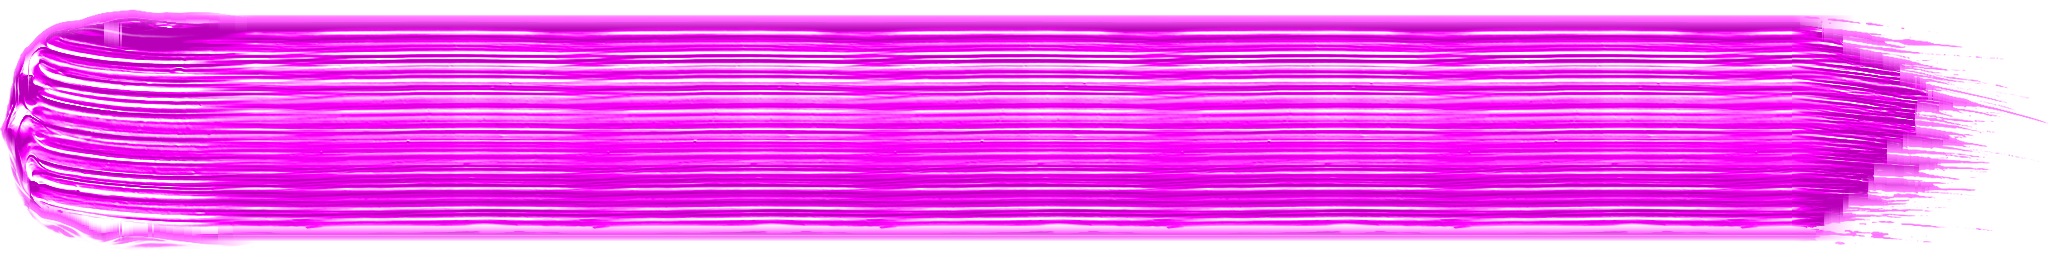
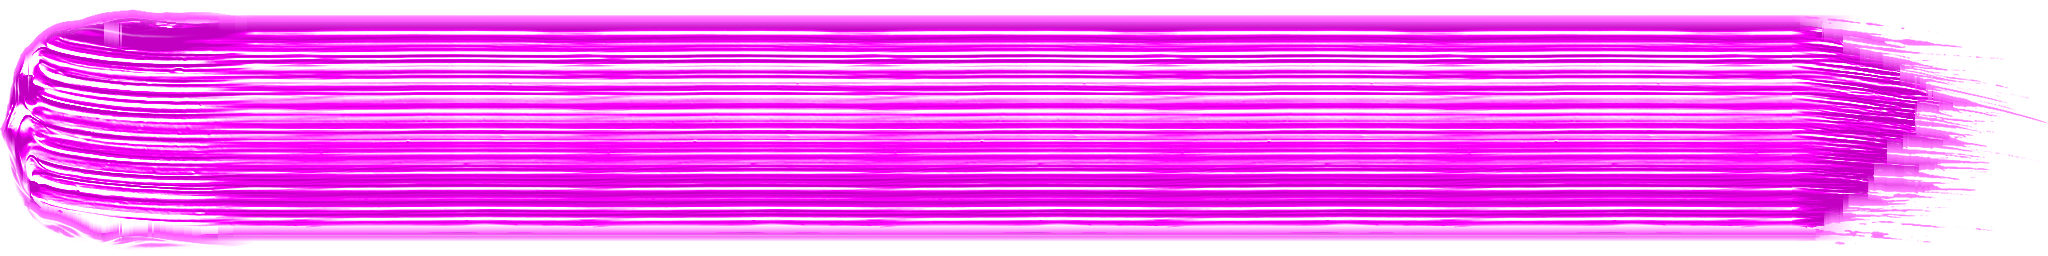
fix(brush): 납작붓 꺾임 폭 유지(앞뒤 대칭 방향+마이터) · 2D 삼각형 텍스처 매핑 · 붓결 강화
- 방향 = 확정 시 앞뒤 폭 20% 현(지연 없음·이벤트 잔꺾임 평균), 꺾임 1/cos(θ/2) 폭 보정(최대 1.5배)
- Canvas2D 이음 띠를 삼각형 2개 정확 아핀 매핑 — 급한 꺾임 부채살 제거
- 하이라이트 G 3.4·캡 0.44, 몸통 세부 0.2(반복 얼룩 감소)

Changed region(s): [[0.0, 0.0938, 0.9375, 0.9062], [0.0312, 0.1562, 0.0625, 0.1875]]

diff --git a/src/engine/brushes/OilRibbon.ts b/src/engine/brushes/OilRibbon.ts
@@ -2,6 +2,8 @@ import { BrushBase } from "./BrushBase";
 import type { BrushSettings, Dab, StrokePoint } from "../types";
 import { RIBBON, ribbonLen, ribbonU } from "../core/ribbon";
 
+type Seg = NonNullable<NonNullable<Dab["slice"]>["seg"]>;
+
 /**
  * 납작붓(리본 유화) — 붓자국 그림 한 장(Firefly 생성, public/brush-tips/oil-ribbon.png)을
  * 획 경로를 따라 얇은 조각으로 잘라 이어 붙인다(2026-10-07 아트봉봉 비교 — 도장을 찍는 유화붓은
@@ -52,6 +54,10 @@ export class OilRibbon extends BrushBase {
   /** 앞 조각 단면(이음 띠의 왼쪽 변) */
   private prev: { x: number; y: number; rot: number; size: number; arc: number } | null = null;
   private tapAt: StrokePoint | null = null;
+  /** 이 획에서 만든 조각 중심(호 길이순) — 앞뒤를 같이 보는 진행 방향 계산용 */
+  private pts: { x: number; y: number; arc: number }[] = [];
+  /** 마지막으로 확정해 내보낸 조각의 단면 — 다음 이음 띠의 왼쪽 변 */
+  private lastOut: Seg | null = null;
 
   private width(): number {
     return this.strokePx(this.settings.size);
@@ -127,12 +133,11 @@ export class OilRibbon extends BrushBase {
     if (pv) {
       const w = this.width();
       d.size = pv.size + (d.size - pv.size) * Math.min(1, (this.arc - pv.arc) / (w * 0.5));
-      let da = d.rotation - pv.rot;
-      da = Math.atan2(Math.sin(da), Math.cos(da));
-      d.rotation = pv.rot + da * Math.min(1, (this.arc - pv.arc) / (w * 0.25));
     }
+    // 방향(d.rotation)은 여기서 정하지 않는다 — 내보낼 때 앞뒤 경로를 함께 보고 정한다(settle)
     d.slice = this.liveSlice(this.arc, d);
     this.arcOf.set(d, this.arc);
+    this.pts.push({ x: d.x, y: d.y, arc: this.arc });
     this.prev = { x: d.x, y: d.y, rot: d.rotation, size: d.size, arc: this.arc };
     return d;
   }
@@ -140,6 +145,8 @@ export class OilRibbon extends BrushBase {
   override begin(p: StrokePoint, settings: BrushSettings): Dab[] {
     this.queue = [];
     this.prev = null;
+    this.pts = [];
+    this.lastOut = null;
     this.tapAt = p;
     super.begin(p, settings); // rotationFollowsStroke — 첫 조각은 방향이 정해질 때까지 보류된다
     return [];
@@ -152,7 +159,59 @@ export class OilRibbon extends BrushBase {
     const keepFrom = this.traveled - ribbonLen(RIBBON.end, this.width());
     let n = 0;
     while (n < this.queue.length && this.queue[n].arc <= keepFrom) n++;
-    return this.queue.splice(0, n).map((q) => q.d);
+    return this.queue.splice(0, n).map((q) => this.settle(q.d, q.arc));
+  }
+
+  /** 호 길이 a 의 경로 위 점(조각 중심 사이 선형 보간) */
+  private pointAt(a: number): { x: number; y: number } {
+    const P = this.pts;
+    let lo = 0;
+    let hi = P.length - 1;
+    if (a <= P[0].arc) return P[0];
+    if (a >= P[hi].arc) return P[hi];
+    while (hi - lo > 1) {
+      const m = (lo + hi) >> 1;
+      if (P[m].arc <= a) lo = m;
+      else hi = m;
+    }
+    const t = (a - P[lo].arc) / Math.max(1e-9, P[hi].arc - P[lo].arc);
+    return { x: P[lo].x + (P[hi].x - P[lo].x) * t, y: P[lo].y + (P[hi].y - P[lo].y) * t };
+  }
+
+  /**
+   * 조각을 확정한다 — 방향 = 앞뒤 폭 20% 구간의 현(대칭이라 꺾일 때 늦게 돌지 않고, 입력 이벤트마다의
+   * 잔꺾임은 평균된다), 급한 꺾임에선 단면을 1/cos(꺾임/2) 만큼 넓혀(최대 1.5배) 폭이 줄지 않게.
+   * 앞 확정 조각의 단면을 이음 띠의 왼쪽 변으로 붙인다(2026-10-08 사용자 «꺾이는 부분이 너무 얇아짐»
+   * — 한쪽 지연 평활은 모서리를 얇게, 지연 0 은 이벤트마다 계단을 만들었다).
+   * 내보내기는 펜보다 끝 구간(획 폭)만큼 뒤라 «앞쪽» 경로가 이미 있다.
+   */
+  private settle(d: Dab, arc: number): Dab {
+    if (this.pts.length > 1) {
+      const h = this.width() * 0.2;
+      const p0 = this.pointAt(arc - h);
+      const pc = this.pointAt(arc);
+      const p1 = this.pointAt(arc + h);
+      const tx = p1.x - p0.x;
+      const ty = p1.y - p0.y;
+      if (tx * tx + ty * ty > 1e-6) d.rotation = Math.atan2(ty, tx);
+      const ix = pc.x - p0.x;
+      const iy = pc.y - p0.y;
+      const ox = p1.x - pc.x;
+      const oy = p1.y - pc.y;
+      const li = Math.hypot(ix, iy);
+      const lo = Math.hypot(ox, oy);
+      if (li > 1e-3 && lo > 1e-3) {
+        const cos = Math.max(-1, Math.min(1, (ix * ox + iy * oy) / (li * lo)));
+        const half = Math.acos(cos) / 2;
+        d.size *= Math.min(1.5, 1 / Math.max(1e-3, Math.cos(half)));
+      }
+    }
+    if (d.slice?.seg) {
+      if (this.lastOut) d.slice = { ...d.slice, seg: { ...this.lastOut } };
+      else d.slice = { u0: d.slice.u0, u1: d.slice.u1, len: d.slice.len };
+    }
+    this.lastOut = { x: d.x, y: d.y, rot: d.rotation, size: d.size };
+    return d;
   }
 
   override preview(): Dab[] {
@@ -160,8 +219,13 @@ export class OilRibbon extends BrushBase {
     const total = this.traveled;
     if (!this.queue.length || total <= w * 0.25) return [];
     const e = Math.min(ribbonLen(RIBBON.end, w), total * 0.5);
-    // end() 와 같은 계산 — 손을 떼도 화면이 안 바뀐다(프리뷰=최종)
-    return this.queue.map((q) => (q.arc > total - e ? { ...q.d, slice: this.endSlice(q, total, e) } : q.d));
+    // end() 와 같은 계산 — 손을 떼도 화면이 안 바뀐다(프리뷰=최종). 확정 상태는 되돌린다.
+    const keep = this.lastOut;
+    const out = this.queue.map((q) =>
+      this.settle({ ...q.d, slice: q.arc > total - e ? this.endSlice(q, total, e) : q.d.slice }, q.arc),
+    );
+    this.lastOut = keep;
+    return out;
   }
 
   override end(): Dab[] {
@@ -177,7 +241,7 @@ export class OilRibbon extends BrushBase {
     const e = Math.min(ribbonLen(RIBBON.end, w), total * 0.5);
     const out = this.queue.map((q) => {
       if (q.arc > total - e) q.d.slice = this.endSlice(q, total, e);
-      return q.d;
+      return this.settle(q.d, q.arc);
     });
     this.queue = [];
     return out;

diff --git a/src/engine/core/Canvas2DBackend.ts b/src/engine/core/Canvas2DBackend.ts
@@ -71,7 +71,7 @@ export class Canvas2DBackend implements RendererBackend {
           if (d[i + 3] === 0) continue;
           const f = d[i] / 255;
           const hl = (d[i + 1] / 255) * k;
-          const w = dk >= 0.6 ? Math.min(0.2, (1 - f) * 0.5 + hl * 0.5) * dk : Math.min(0.34, hl * 0.62);
+          const w = dk >= 0.6 ? Math.min(0.3, (1 - f) * 0.5 + hl * 0.5) * dk : Math.min(0.44, hl * 0.78);
           const m = dk >= 0.6 ? 1 : f;
           d[i] = color.r * m + (255 - color.r * m) * w;
           d[i + 1] = color.g * m + (255 - color.g * m) * w;
@@ -251,34 +251,23 @@ export class Canvas2DBackend implements RendererBackend {
       }
       const seg = dab.slice?.seg;
       if (dab.slice && seg) {
-        // 이음 띠 — 사다리꼴(앞 단면 → 이 단면)로 잘라 그 안에 띠를 평행사변형으로 입힌다.
-        // Canvas2D 는 사다리꼴 텍스처 매핑이 없어 평균 법선 평행사변형 + 클립으로 근사(GL 은 정확).
+        // 이음 띠 — GL 과 같은 사다리꼴(앞 단면 → 이 단면)을 삼각형 두 개로 나눠 각각 정확한 아핀 매핑.
+        // 평행사변형 근사는 급한 꺾임(부채꼴 이음)에서 조각 사이가 비어 붓털이 부채살처럼 삐져나왔다(2026-10-08 실측).
         const src = this.sliceSource(dab.tip ?? this.ctx.tip, color, Math.max(s, seg.size));
         const n0x = -Math.sin(seg.rot) * seg.size * 0.5;
         const n0y = Math.cos(seg.rot) * seg.size * 0.5;
         const n1x = -Math.sin(dab.rotation) * s * 0.5;
         const n1y = Math.cos(dab.rotation) * s * 0.5;
-        const ax = dab.x - seg.x;
-        const ay = dab.y - seg.y;
-        const al = Math.hypot(ax, ay) || 1;
-        // 이웃 조각과 맞닿는 변이 안티에일리어싱으로 반투명 겹침(실선)이 되지 않게 진행 방향으로 0.6px 겹친다
-        const ex = (ax / al) * 0.6;
-        const ey = (ay / al) * 0.6;
-        target.beginPath();
-        target.moveTo(seg.x + n0x - ex, seg.y + n0y - ey);
-        target.lineTo(dab.x + n1x + ex, dab.y + n1y + ey);
-        target.lineTo(dab.x - n1x + ex, dab.y - n1y + ey);
-        target.lineTo(seg.x - n0x - ex, seg.y - n0y - ey);
-        target.closePath();
-        target.clip();
-        const nx = (n0x + n1x) * 1.25; // 평균 법선 × 폭(사다리꼴 모서리가 평행사변형 밖으로 안 나오게 여유)
-        const ny = (n0y + n1y) * 1.25;
-        const ext = 1.2 / al; // 진행 방향 양쪽 1.2px 더 — 이웃 조각과 맞닿는 곳 흰 틈 방지
-        const sx = dab.slice.u0 * src.width;
-        const sw = Math.max(1, (dab.slice.u1 - dab.slice.u0) * src.width);
-        // 단위 사각형 → (앞 중심 − 법선) 원점, x축 = 진행, y축 = 폭
-        target.transform(ax, ay, nx, ny, seg.x - nx / 2, seg.y - ny / 2);
-        target.drawImage(src, sx, 0, sw, src.height, -ext, 0, 1 + 2 * ext, 1);
+        const su0 = dab.slice.u0 * src.width;
+        const su1 = dab.slice.u1 * src.width;
+        const H = src.height;
+        // 꼭짓점: A(u0,0)=p0−n0 · B(u1,0)=p1−n1 · C(u1,1)=p1+n1 · D(u0,1)=p0+n0 — GL 셰이더와 같은 배치
+        const A = [seg.x - n0x, seg.y - n0y, su0, 0];
+        const B = [dab.x - n1x, dab.y - n1y, su1, 0];
+        const Cq = [dab.x + n1x, dab.y + n1y, su1, H];
+        const D = [seg.x + n0x, seg.y + n0y, su0, H];
+        this.texTri(target, src, A, B, D); // globalAlpha·합성은 위 save 상태를 물려받는다
+        this.texTri(target, src, D, B, Cq);
         target.restore();
         continue;
       }
@@ -296,6 +285,50 @@ export class Canvas2DBackend implements RendererBackend {
       target.restore();
     }
     if (eraser) target.restore();
+  }
+
+  /**
+   * 텍스처 삼각형 — 점 = [x, y, 원본 sx, 원본 sy]. 원본 삼각형을 대상 삼각형으로 보내는 아핀 변환을 걸고
+   * 대상 삼각형(무게중심에서 0.6px 부풀림 — 이웃 삼각형과 안티에일리어싱 실선 방지)으로 잘라 그린다.
+   */
+  private texTri(t: CanvasRenderingContext2D, src: HTMLCanvasElement, p0: number[], p1: number[], p2: number[]): void {
+    const ux = p1[2] - p0[2];
+    const uy = p1[3] - p0[3];
+    const vx = p2[2] - p0[2];
+    const vy = p2[3] - p0[3];
+    const det = ux * vy - vx * uy;
+    if (Math.abs(det) < 1e-6) return;
+    const pux = p1[0] - p0[0];
+    const puy = p1[1] - p0[1];
+    const pvx = p2[0] - p0[0];
+    const pvy = p2[1] - p0[1];
+    const a = (pux * vy - pvx * uy) / det;
+    const c = (pvx * ux - pux * vx) / det;
+    const b = (puy * vy - pvy * uy) / det;
+    const d = (pvy * ux - puy * vx) / det;
+    const e = p0[0] - a * p0[2] - c * p0[3];
+    const f = p0[1] - b * p0[2] - d * p0[3];
+    const cx = (p0[0] + p1[0] + p2[0]) / 3;
+    const cy = (p0[1] + p1[1] + p2[1]) / 3;
+    const grow = (p: number[]) => {
+      const dx = p[0] - cx;
+      const dy = p[1] - cy;
+      const l = Math.hypot(dx, dy) || 1;
+      return [p[0] + (dx / l) * 0.6, p[1] + (dy / l) * 0.6];
+    };
+    const [q0, q1, q2] = [grow(p0), grow(p1), grow(p2)];
+    t.save();
+    t.beginPath();
+    t.moveTo(q0[0], q0[1]);
+    t.lineTo(q1[0], q1[1]);
+    t.lineTo(q2[0], q2[1]);
+    t.closePath();
+    t.clip();
+    t.transform(a, b, c, d, e, f);
+    const sx0 = Math.max(0, Math.floor(Math.min(p0[2], p1[2], p2[2])) - 1);
+    const sx1 = Math.min(src.width, Math.ceil(Math.max(p0[2], p1[2], p2[2])) + 1);
+    t.drawImage(src, sx0, 0, Math.max(1, sx1 - sx0), src.height, sx0, 0, Math.max(1, sx1 - sx0), src.height);
+    t.restore();
   }
 
   private liveBuf: CanvasRenderingContext2D | null = null;

diff --git a/src/engine/core/WebGL2Backend.ts b/src/engine/core/WebGL2Backend.ts
@@ -103,12 +103,13 @@ void main() {
   // 색(로열블루)이 분필처럼 바랜다("흰색 섞은 듯", 2026-07-06 사용자 실측). 직조는
   // 획 전체에 상시 깔리는 항이라 특히 낮게(0.4) — 스트릭은 국소라 좀 더 허용.
   // (0.3/0.32는 i-scream 대비 디테일 부족, 2026-07-10 사용자 실측 → 캡 안에서 소폭 상향)
-  vec3 darkened = mix(col * f, vec3(1.0), min(0.34, g * 0.4 * u_grainLift + hl * 0.62));
+  // 납작붓 띠(u_hlTip)는 붓결이 텍스처 G 에 국소로만 있어 캡을 더 연다(2026-10-08 «붓결 더 강하게»)
+  vec3 darkened = mix(col * f, vec3(1.0), min(mix(0.34, 0.44, u_hlTip), g * 0.4 * u_grainLift + hl * mix(0.62, 0.78, u_hlTip)));
   // 어두운 색 하이라이트는 상한 필수 — 깊은 골(f=0.6)에 비례 계수만 쓰면 골마다
   // 37% 백색 혼입 → 검정이 회색빛 + 흰 줄 스팸(실기기 실측). 0.2 캡이면
   // 결이 보이면서 검정은 검정으로 남는다(0.16은 i-scream 대비 디테일 부족 실측,
   // 백화·스트릭 기여도 같은 캡 안).
-  float lift = min(0.2, (1.0 - f) * 0.5 + g * 0.3 * u_grainLift + hl * 0.5) * dk;
+  float lift = min(mix(0.2, 0.3, u_hlTip), (1.0 - f) * 0.5 + g * 0.3 * u_grainLift + hl * 0.5) * dk;
   vec3 lightened = mix(col, vec3(1.0), lift);
   col = mix(darkened, lightened, step(0.6, dk));
   // 수채 농담 구름 — 종이가 물을 먹는 정도의 저주파 요동(옅은 자리/안료 고임).

diff --git a/scripts/process-ribbon.py b/scripts/process-ribbon.py
@@ -28,6 +28,7 @@ ROOT = Path(__file__).resolve().parent.parent
 SRC_DIR = ROOT / "assets-src" / "textures"
 OUT = ROOT / "public" / "brush-tips" / "oil-ribbon.png"
 W, H = 2048, 256
+DETAIL = 0.2  # 몸통 조각 세부 — 0.35 는 몸통 반복마다 어두운 얼룩이 구슬처럼 줄지었다(2026-10-08)
 STREAK_GAIN = 5.5  # 2026-10-08 사용자 «붓결 더 진하게» — 3.0 은 몸통이 거의 단색
 OUT_BOLD = ROOT / "public" / "brush-tips" / "oil-ribbon-bold.png"
 START, BODY, END = (0, 256), (256, 1792), (1792, 2048)
@@ -108,13 +109,13 @@ def build(src_path: Path):
     per[:, :fade] = det[:, n - fade :] * (1 - w) + det[:, :fade] * w  # 가로 주기화
     reps = int(np.ceil(body_tex_len / per.shape[1]))
     det_t = np.tile(per, (1, reps))[:, :body_tex_len]
-    body_l = prof_l + 0.35 * det_t
+    body_l = prof_l + DETAIL * det_t
     body_a = np.repeat(prof_a, body_tex_len, 1)
     P = per.shape[1]
     # 시작 구간 오른쪽 30% 를 몸통 프로필로 이어 준다(시작→몸통 연속)
     bw = int((START[1] - START[0]) * 0.3)
     ww = np.linspace(0, 1, bw)[None, :]
-    lum_s[:, -bw:] = lum_s[:, -bw:] * (1 - ww) + (prof_l + 0.35 * det_t[:, :1]) * ww
+    lum_s[:, -bw:] = lum_s[:, -bw:] * (1 - ww) + (prof_l + DETAIL * det_t[:, :1]) * ww
     al_s[:, -bw:] = al_s[:, -bw:] * (1 - ww) + prof_a * ww
     lum_e, al_e = crop(lum, e0, x1 + 2, e_len_tex), crop(alpha, e0, x1 + 2, e_len_tex)
     # 끝 구간 왼쪽 25% 를 몸통 프로필에서 출발(몸통→끝 연속 — 끝은 아무 위상에서나 붙는다)
@@ -181,8 +182,8 @@ def pack_channels(dev: np.ndarray, A: np.ndarray, lift: np.ndarray) -> np.ndarra
     붓결을 어두운 골로만 그리면 획 전체가 고른 색보다 어둡고 «검은 느낌»이 났다(2026-10-08 사용자 두 번째 지적).
     아트봉봉처럼 몸통은 제 색 그대로, 결은 밝은 줄로. 테두리는 어둡게 하지 않고 옅은 흰 테.
     """
-    r = np.clip(1 + np.minimum(dev, 0) * 0.55, 0.72, 1.0)
-    g = np.clip(np.maximum(dev, 0) * 2.5, 0, 1)
+    r = np.clip(1 + np.minimum(dev, 0) * 0.5, 0.76, 1.0)
+    g = np.clip(np.maximum(dev, 0) * 3.4, 0, 1)  # 2.5 → 3.4: 2026-10-08 «붓결 더 강하게»(4.0 은 획이 하얗게 바램)
     r = r * (1 - lift) + lift
     g = np.maximum(g * (1 - lift), lift * 0.5)
     paint = A > 0.004
